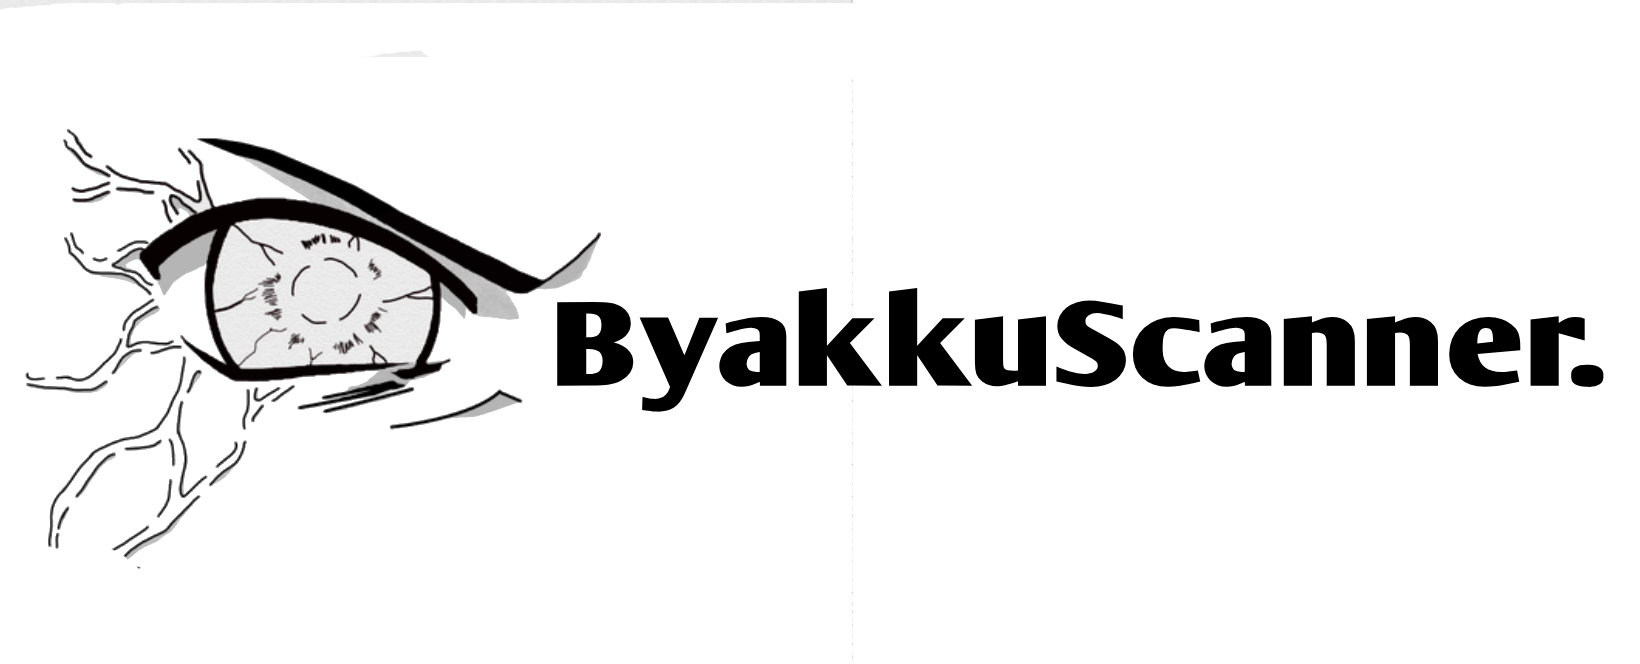
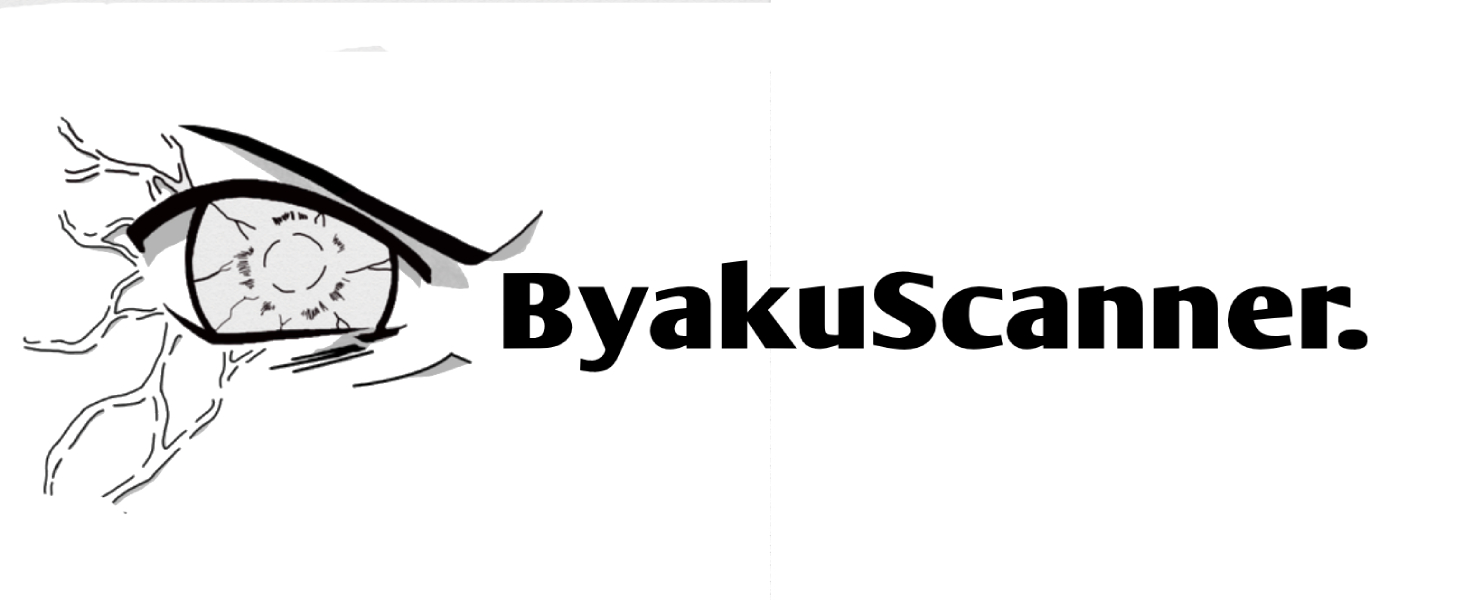
Fix Major Typo

Changed region(s): [[0.5277, 0.42, 0.9933, 0.6]]

diff --git a/readme.md b/readme.md
@@ -1,4 +1,4 @@
-![ByakkuScanner](./Resources/banner.jpg)
+![ByakuScanner](./Resources/banner.jpg)
 <h1 align="center">ByakuScanner</h1>
 
 <p align="center">
